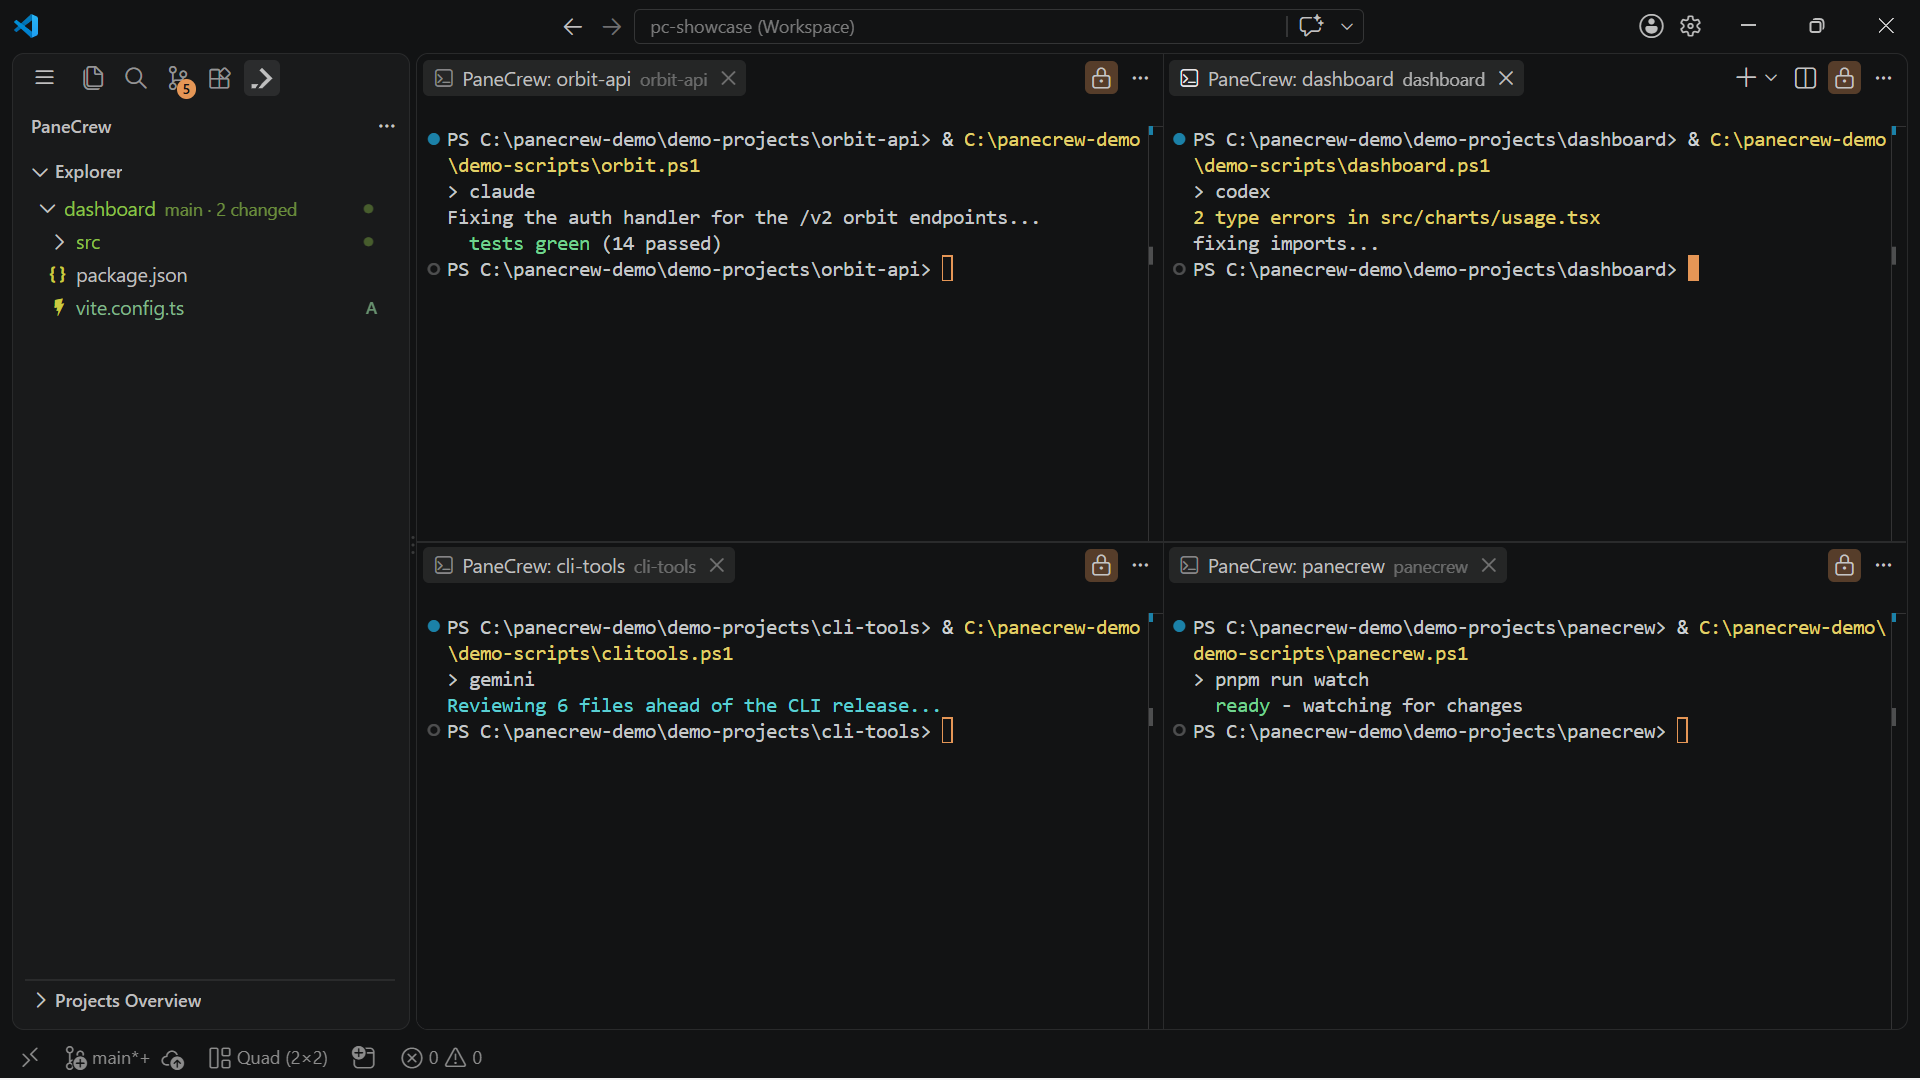
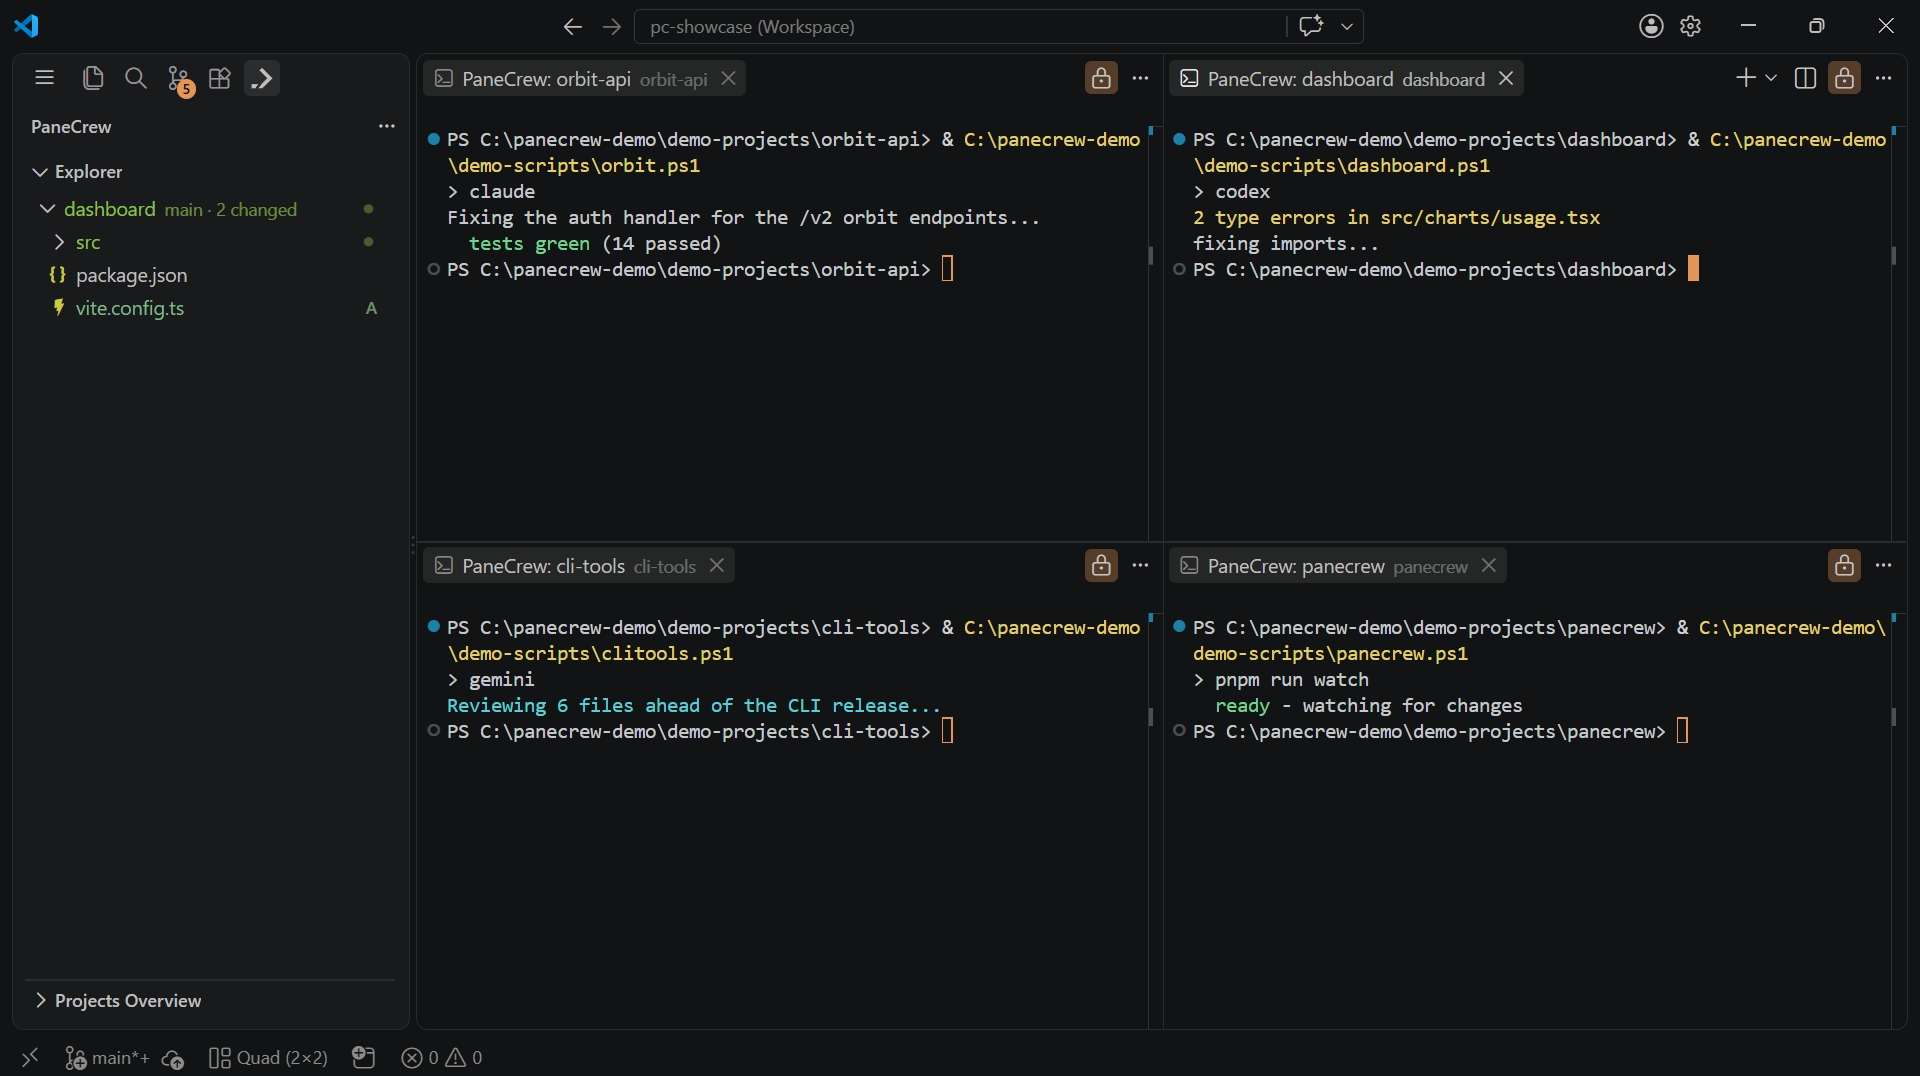
feat(promo-video): add RGB-split glitch flourish and crop artifact-free screenshots
Brief chromatic-aberration jitter on the wordmark reveal (opening/closing
scenes) inspired by the Crush reference video's neon-glitch style, kept
within PaneCrew's amber/cyan palette. Also swaps in panecrew-32's
white-pixel-artifact-cropped screenshot versions (1920x1076).

diff --git a/videos/panecrew-promo/index.html b/videos/panecrew-promo/index.html
@@ -275,6 +275,14 @@
         background-clip: text;
         color: transparent;
       }
+      /* brief RGB-split flicker on the wordmark's arrival - a quick nod to the
+         glitchy neon reveal treatments common in this genre, kept short and
+         on-palette (amber/cyan) so it reads as a flourish, not a re-theme */
+      .brand-scene .wordmark.glitch {
+        text-shadow:
+          -3px 0 #5ee1e6,
+          3px 0 #f2a65a;
+      }
       .brand-scene .tagline {
         font-family: "JetBrains Mono", monospace;
         font-weight: 400;
@@ -425,7 +433,7 @@
             <path class="chevron" d="M20 24 L64 64 L20 104" stroke="url(#markGrad)" stroke-width="14" stroke-linecap="round" stroke-linejoin="round" fill="none" />
             <rect class="block" x="72" y="52" width="34" height="24" rx="4" fill="url(#markGrad)" />
           </svg>
-          <h2 class="wordmark">PaneCrew</h2>
+          <h2 class="wordmark" id="wordmark-closing">PaneCrew</h2>
           <p class="tagline">Terminals, in formation.</p>
           <p class="meta">Free &middot; MIT-licensed &middot; VS Code Marketplace</p>
         </div>
@@ -453,6 +461,12 @@
       tl.to("#scene-open .glyph .chevron", { strokeDashoffset: 0, duration: 0.65, ease: "power2.out" }, 0.2);
       tl.fromTo("#scene-open .glyph .block", { scale: 0 }, { scale: 1, duration: 0.4, ease: "back.out(2.6)" }, 0.75);
       tl.fromTo("#scene-open .wordmark .letter", { yPercent: 120 }, { yPercent: 0, duration: 0.55, ease: "power3.out", stagger: 0.045 }, 0.95);
+      // quick RGB-split glitch flicker as the wordmark lands
+      tl.set("#wordmark-open", { className: "wordmark glitch" }, 1.42);
+      tl.to("#wordmark-open", { x: -4, duration: 0.04 }, 1.44);
+      tl.to("#wordmark-open", { x: 3, duration: 0.04 }, 1.48);
+      tl.to("#wordmark-open", { x: 0, duration: 0.04 }, 1.52);
+      tl.set("#wordmark-open", { className: "wordmark" }, 1.58);
       tl.to("#tagline-open", { opacity: 1, duration: 0.5, ease: "power2.out" }, 1.75);
       tl.to("#scene-open-inner", { opacity: 0, duration: 0.3, ease: "power1.in" }, 3.5);
       tl.set("#scene-open-inner", { opacity: 0 }, 3.8);
@@ -506,6 +520,11 @@
       tl.to("#scene-closing .glyph .chevron", { strokeDashoffset: 0, duration: 0.6, ease: "power2.out" }, 29.7);
       tl.fromTo("#scene-closing .glyph .block", { scale: 0 }, { scale: 1, duration: 0.4, ease: "back.out(2.6)" }, 30.2);
       tl.fromTo("#scene-closing .wordmark", { y: 24, opacity: 0 }, { y: 0, opacity: 1, duration: 0.6, ease: "power3.out" }, 30.4);
+      tl.set("#wordmark-closing", { className: "wordmark glitch" }, 30.87);
+      tl.to("#wordmark-closing", { x: -4, duration: 0.04 }, 30.89);
+      tl.to("#wordmark-closing", { x: 3, duration: 0.04 }, 30.93);
+      tl.to("#wordmark-closing", { x: 0, duration: 0.04 }, 30.97);
+      tl.set("#wordmark-closing", { className: "wordmark" }, 31.03);
       tl.to("#scene-closing .tagline", { opacity: 1, duration: 0.4 }, 30.9);
       tl.to("#scene-closing .meta", { opacity: 1, duration: 0.4 }, 31.15);
       tl.to("#scene-closing .glow", { xPercent: -50, yPercent: -55, scale: 1.08, duration: 1.4, ease: "sine.inOut", repeat: 2, yoyo: true }, 31.4);
